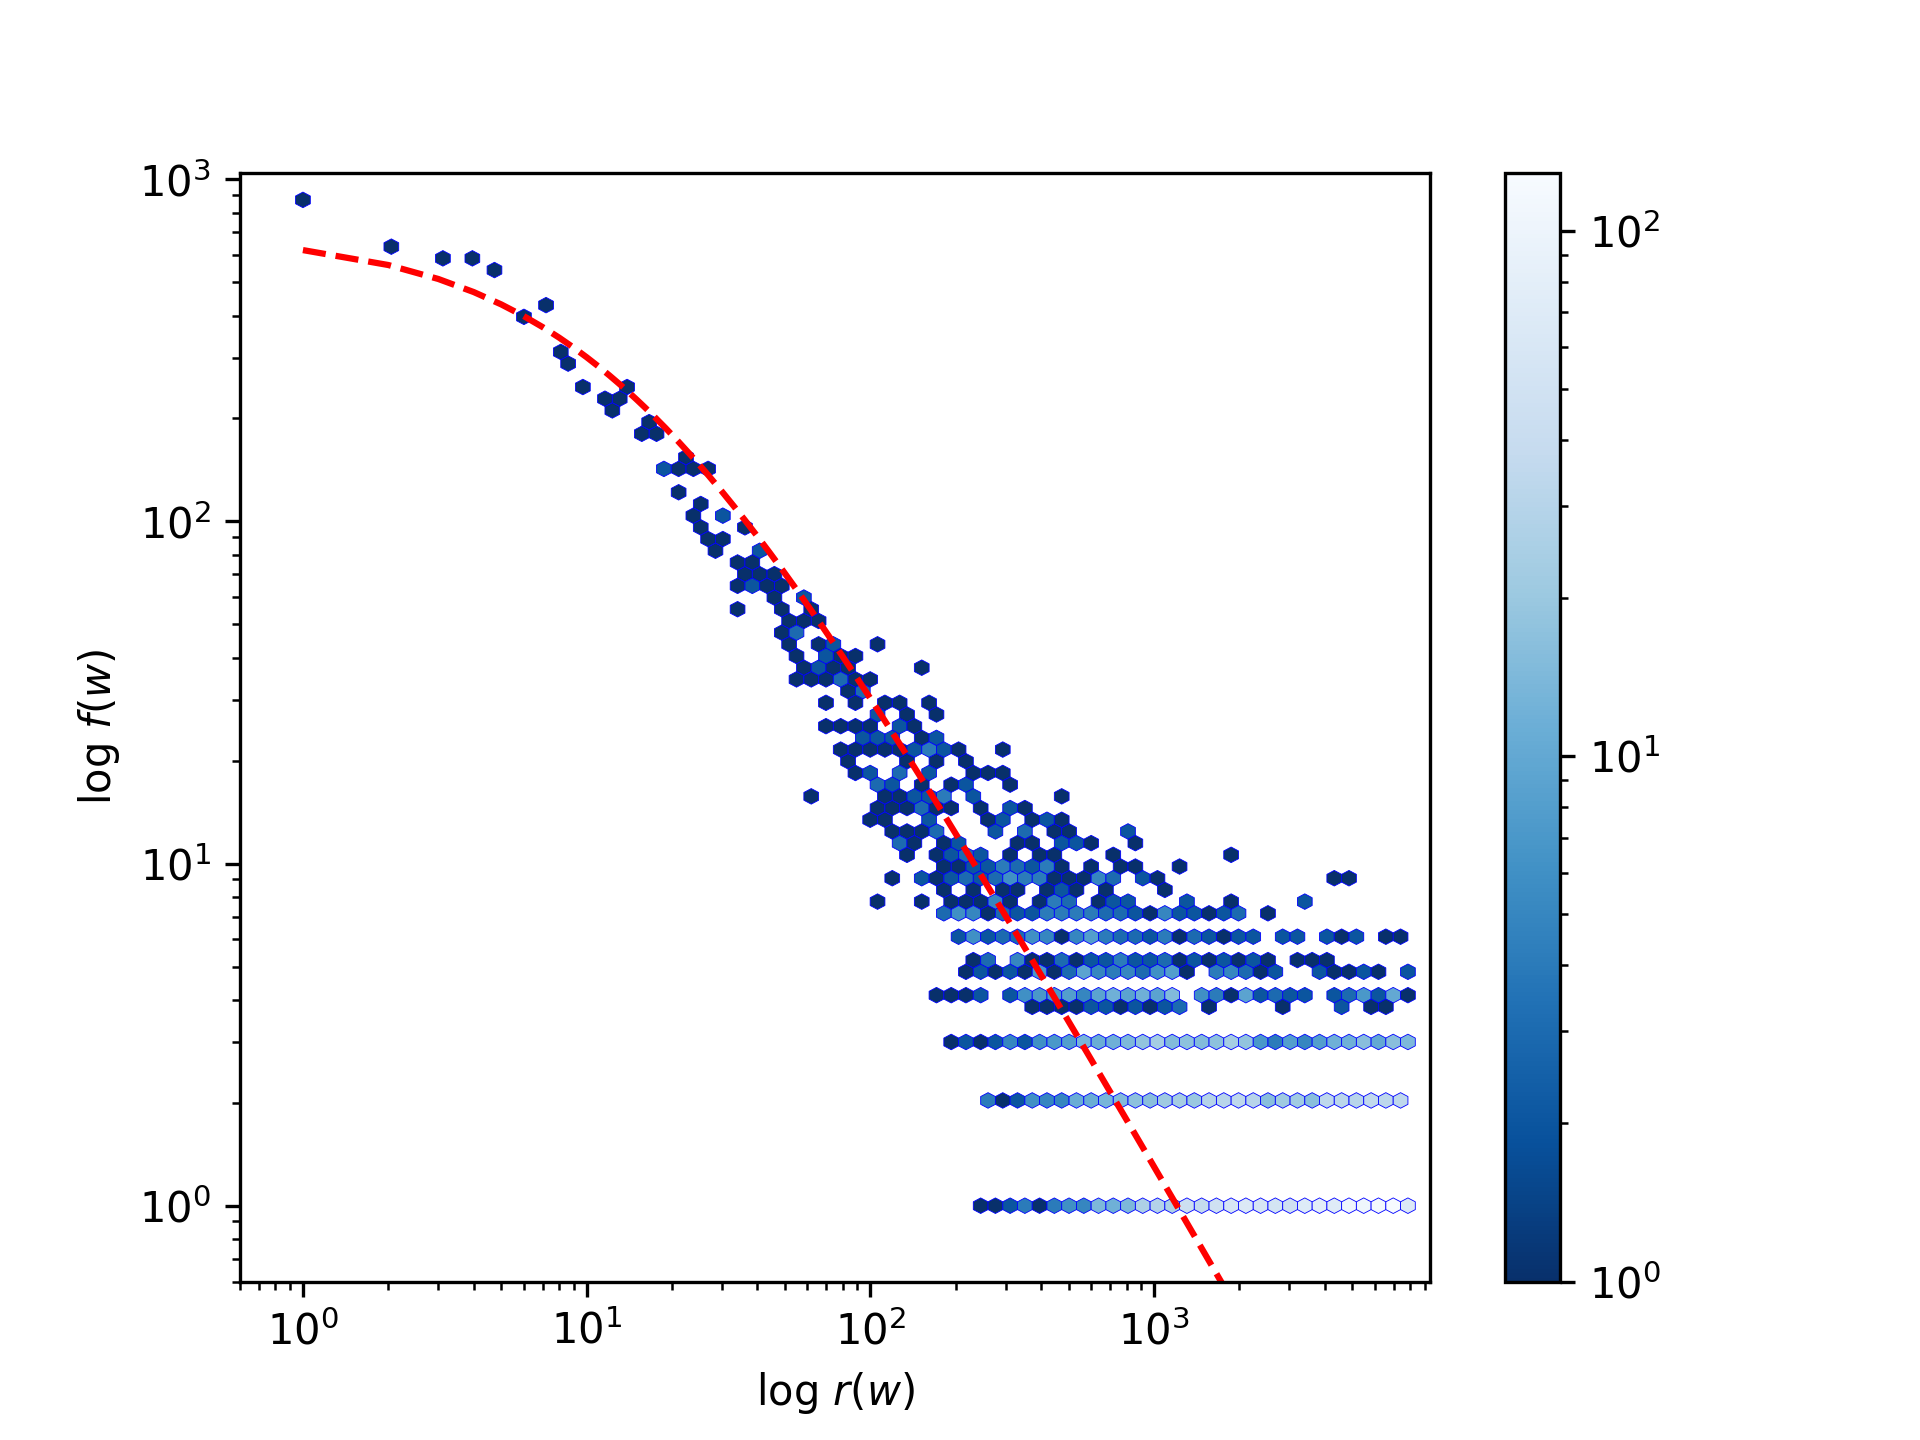
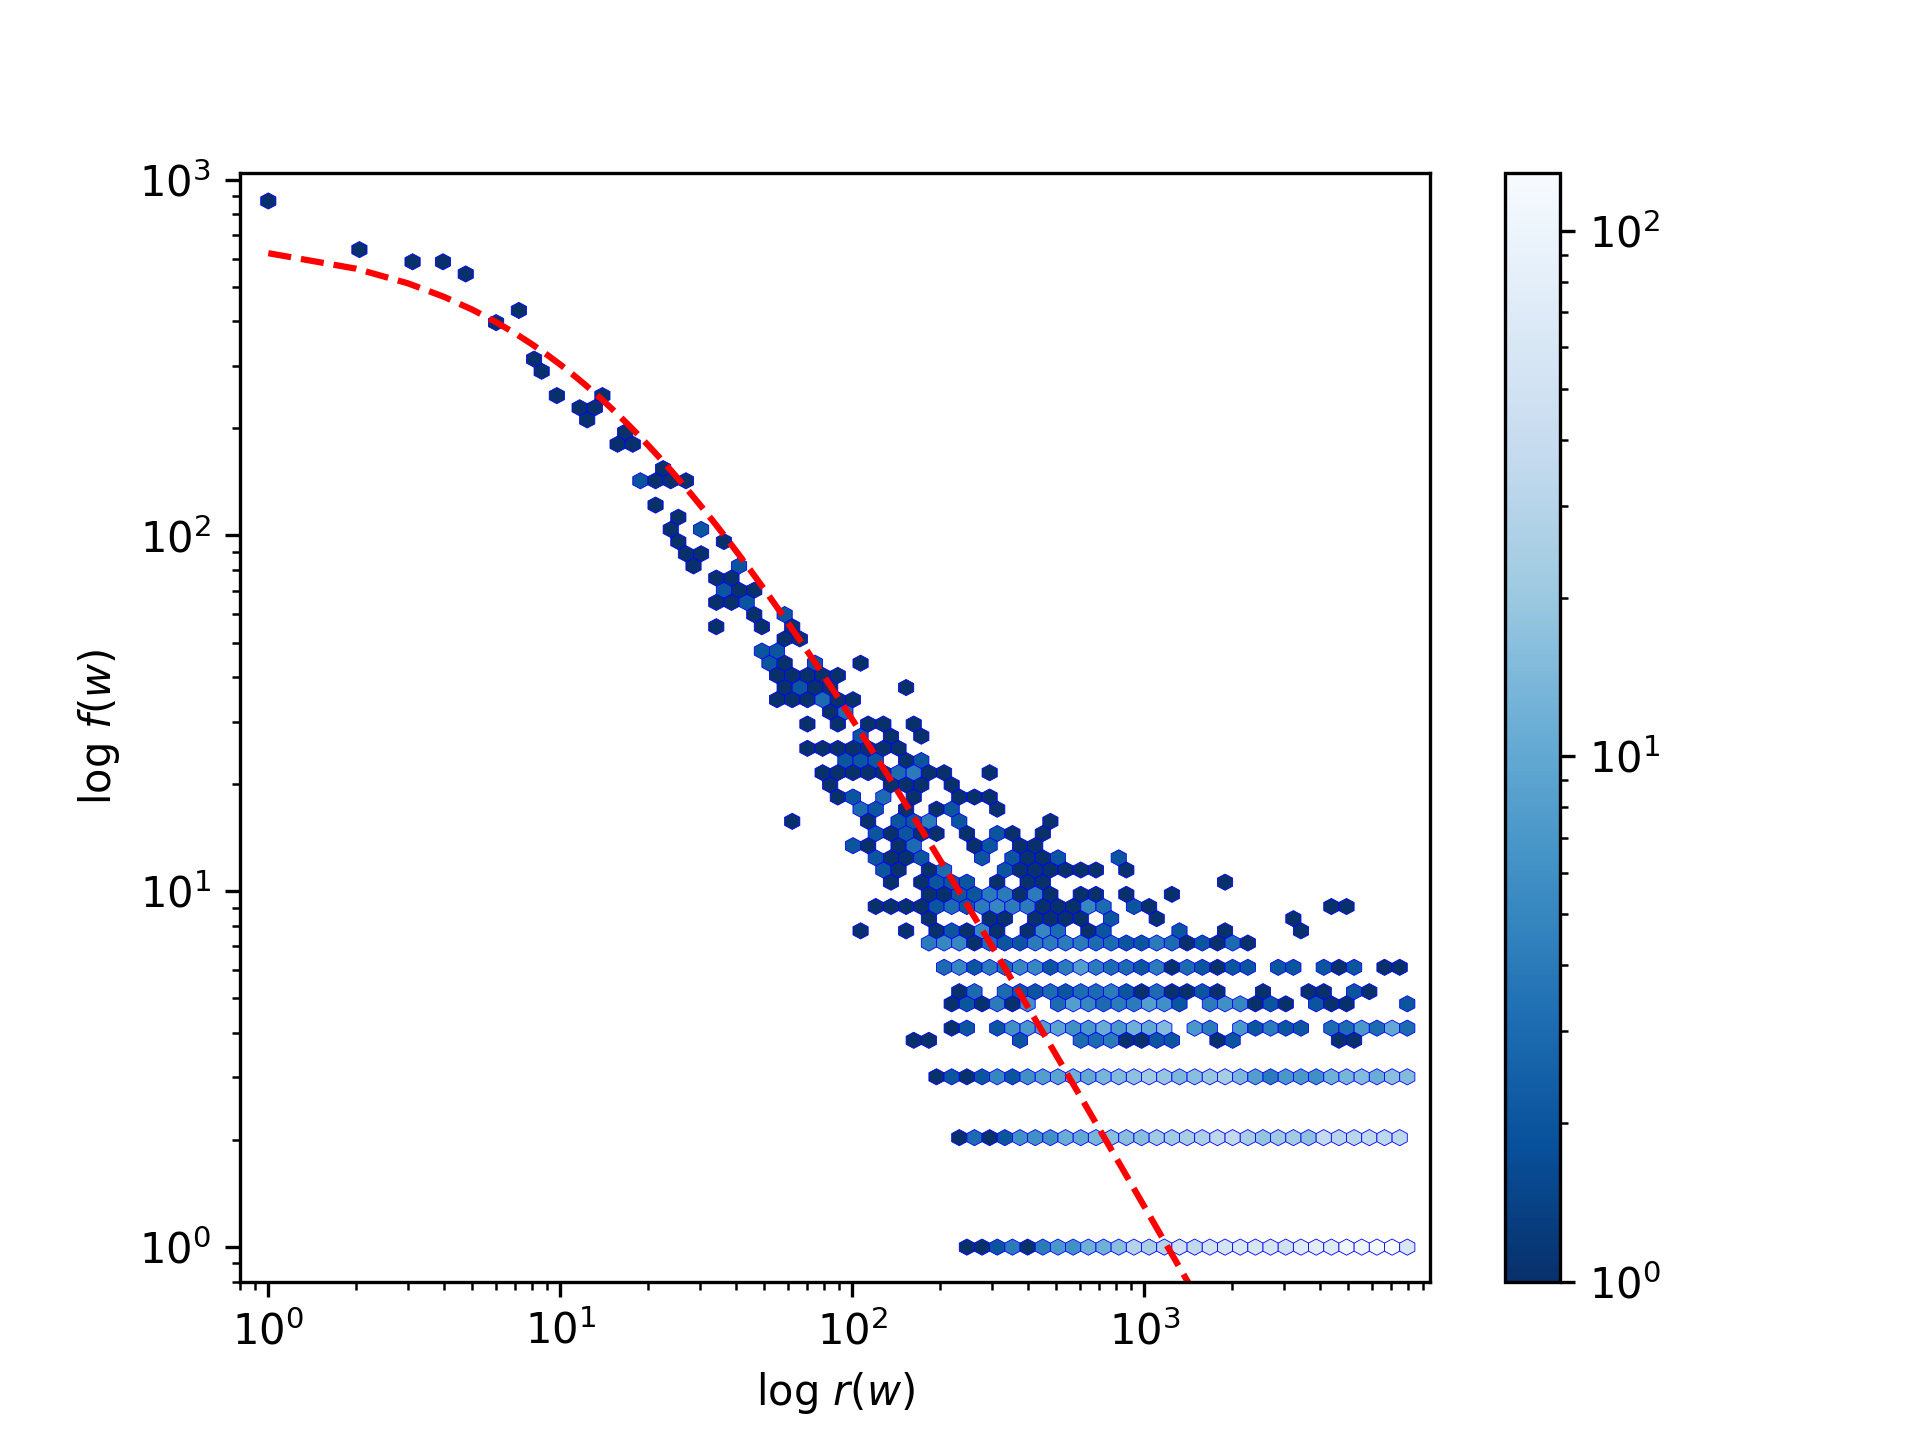
plotting

diff --git a/stats_eval.py b/stats_eval.py
@@ -164,11 +164,11 @@ if __name__ == "__main__":
     #VAR IN RESIDUALS    
     sentence_spec_suite.plot(plot_type="residual_all", preds=mandel_preds_uni, 
                              cbar=True, gridsize=150,
-                             color="blue", label="pooled")
+                             color="blue", label="pooled", unify_domains=True)
     randi = rand.randint(0, sentence_spec_suite.n_specs)
     sentence_spec_suite.plot(plot_type="residual", preds=mandel_preds_uni[randi],
                              ind=randi, gridsize=175, cbar=False,
-                             color="red", label="single")
+                             color="red", label="single", unify_domains=True)
     
 #    plt.plot(uni_domain, np.ones_like(uni_domain), "--", color="red",
 #             linewidth=0.5)    
@@ -235,8 +235,8 @@ if __name__ == "__main__":
     articles_words_correl = all_articles_ranks_freqs.correlate_with(all_words_ranks_freqs, 
                                                                    compute_correl=True,
                                                                    plot_correl=True,
-                                                                   this_name="$\log$ frequency from articles",
-                                                                   other_name="$\log$ frequency from words",
+                                                                   this_name="$\log$ f(w) from articles",
+                                                                   other_name="$\log$ f(w) from words",
                                                                    show=False)
     plt.savefig(summary_dir + "article_word_correlation", dpi=300)
     plt.close()
@@ -272,14 +272,14 @@ if __name__ == "__main__":
                                       dir_prefix=stat_dir)
     
     thinned_i = np.linspace(0, convergence_rank_suite.n_specs-1, 5).astype("int")
+#    thinned_i = (np.linspace(0., 1., 5)**2*(convergence_rank_suite.n_specs-1)).astype("int")
 
     
-    
+    print([spec.n_tokens for spec in convergence_rank_suite.spectra])
     colors = ["purple", "blue", "green", "orange", "red"]
     for c_i, i in enumerate(thinned_i):
             print("\tCONV ", i)
-            hexbin_plot(convergence_rank_suite.spectra[i].domain, 
-                convergence_rank_suite.spectra[i].propens, xlbl="log rank", ylbl="log frequency", 
+            convergence_rank_suite.plot("hexbin", ind=i, 
                 log=True, edgecolors=colors[c_i%len(colors)], cmap="Blues_r", linewidths=0.5, 
                 alpha=1-(c_i/convergence_rank_suite.n_specs/2),
                 cbar=False, label=str(convergence_rank_suite.spectra[i].n_tokens), color=colors[c_i%len(colors)])
@@ -299,11 +299,16 @@ if __name__ == "__main__":
 
     colors = ["purple", "blue", "green", "orange", "red"]
     for c_i, i in enumerate(thinned_i):
-            hexbin_plot(convergence_rank_freq_suite.spectra[i].domain, 
-                convergence_rank_freq_suite.spectra[i].propens, xlbl="log rank", ylbl="log frequency", 
-                log=True, edgecolors=colors[c_i%len(colors)], cmap="Blues_r", linewidths=0.5, 
-                alpha=1-(i/convergence_rank_freq_suite.n_specs/2),
-                cbar=False, label=str(convergence_rank_freq_suite.spectra[i].n_tokens), color=colors[c_i%len(colors)])
+            convergence_rank_freq_suite.plot("hexbin", ind=i, edgecolors=colors[c_i%len(colors)], 
+                cmap="Blues_r", linewidths=0.5, alpha=1-(i/convergence_rank_freq_suite.n_specs/2),
+                cbar=False, label=str(convergence_rank_freq_suite.spectra[i].n_tokens), 
+                color=colors[c_i%len(colors)])
+
+#            hexbin_plot(convergence_rank_freq_suite.spectra[i].domain, 
+#                convergence_rank_freq_suite.spectra[i].propens, xlbl="log rank", ylbl="log frequency", 
+#                log=True, edgecolors=colors[c_i%len(colors)], cmap="Blues_r", linewidths=0.5, 
+#                alpha=1-(i/convergence_rank_freq_suite.n_specs/2),
+#                cbar=False, label=str(convergence_rank_freq_suite.spectra[i].n_tokens), color=colors[c_i%len(colors)])
 
     plt.legend()
     plt.colorbar()
@@ -317,12 +322,12 @@ if __name__ == "__main__":
                                       dir_prefix=stat_dir)
 
     colors = ["purple", "blue", "green", "orange", "red"]
-    for c_i, i in enumerate(thinned_i):            
-        hexbin_plot(convergence_freq_suite.spectra[i].domain, 
-                convergence_freq_suite.spectra[i].propens, xlbl="log frequency", ylbl="log frequency of frequency", 
-                log=True, edgecolors=colors[c_i%len(colors)], cmap="Blues_r", linewidths=0.5, 
+    for c_i, i in enumerate(thinned_i):
+        convergence_freq_suite.plot("hexbin", ind=i, 
+                edgecolors=colors[c_i%len(colors)], cmap="Blues_r", linewidths=0.5, 
                 alpha=1-(i/convergence_freq_suite.n_specs/2),
-                cbar=False, label=str(convergence_rank_freq_suite.spectra[i].n_tokens), color=colors[c_i%len(colors)])
+                cbar=False, label=str(convergence_rank_freq_suite.spectra[i].n_tokens), 
+                color=colors[c_i%len(colors)])
 
     plt.colorbar()
     plt.legend()
@@ -388,4 +393,3 @@ if __name__ == "__main__":
 #%%  
     
     plt.rcParams['agg.path.chunksize'] = orig_val
-    

diff --git a/stats/zipf_estimation.py b/stats/zipf_estimation.py
@@ -250,7 +250,7 @@ class ImprovedSpectrumSuite:
     
         
     def plot(self, plot_type, log=True, show=False, 
-             unify_domains=True, preds=None, ind=None, **plt_args):
+             unify_domains=False, preds=None, ind=None, **plt_args):
         
         if plot_type.startswith("residual") and preds is None:
             raise ValueError("Need preds to calculate residuals!")
@@ -266,9 +266,12 @@ class ImprovedSpectrumSuite:
 #                            np.max(propens, axis=0)
         
         
+        
+        use_ranks, use_freqs = self.spectra[0].ranks, self.spectra[0].freqs
         lbl_str = "$\log$ " if log else ""
-        xlbl = lbl_str + "$r(w)$" # ("rank" if self.ranks else "frequency")
-        ylbl = lbl_str + "$f(w)$" #("frequency" if self.freqs else "normalised frequency")
+        xlbl = lbl_str + "$r(w)$" if use_ranks else "$f(w)$"
+        ylbl = ("" if use_freqs else "normalised ") + lbl_str +\
+                    ("$f(w)$" if use_ranks else "$f(f(w))$")
         
         if ind is None:
             ind = rand.randint(len(self.spectra), dtype="int")
@@ -293,6 +296,7 @@ class ImprovedSpectrumSuite:
                         log=log, **params)
 
         elif plot_type == "residual":
+            ylbl = lbl_str + "$\hat{f}(w)/f(w)$"
             params = dict(edgecolors="red", cmap="Reds_r", linewidths=0.2)
             params.update(plt_args)
             
@@ -304,6 +308,7 @@ class ImprovedSpectrumSuite:
 
 
         elif plot_type == "residual_all":
+            ylbl = lbl_str + "$\hat{f}(w)/f(w)$"
             params = dict(edgecolors="blue", cmap="Blues_r", linewidths=0.2)
             params.update(plt_args)
             

diff --git a/stats/heap_estimation.py b/stats/heap_estimation.py
@@ -84,7 +84,7 @@ class ImprovedHeap:
             
             
     def plot(self, plot_type, show=False, preds=None, **plt_args):
-        xlbl, ylbl = "number of tokens", "number of types"
+        xlbl, ylbl = "$n$", "$|V(n)|$"
         if plot_type == "hexbin":
             params = dict(edgecolors="blue", linewidths=0.2, cmap="Blues_r")
             params.update(plt_args)
@@ -105,7 +105,7 @@ class ImprovedHeap:
             
     @staticmethod
     def pooled_plot(heaps, plot_type, show=False, preds=None, **plt_args):
-        xlbl, ylbl = "number of tokens", "number of types"
+        xlbl, ylbl = "$n$", "$|V_k(n)|$"
         concat_domains = np.concatenate([h.domain for h in heaps])
         concat_counts = np.concatenate([h.counts for h in heaps])
         if plot_type == "hexbin":
